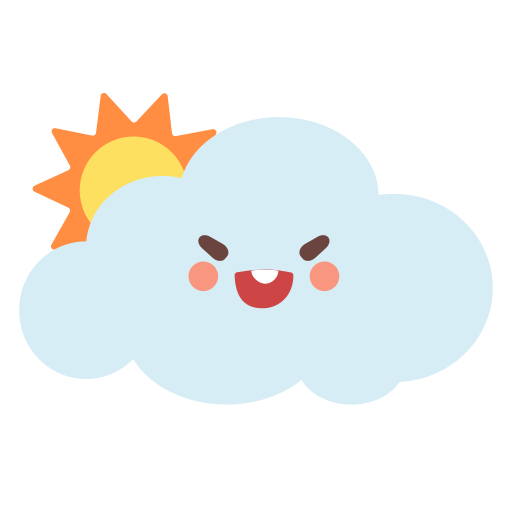
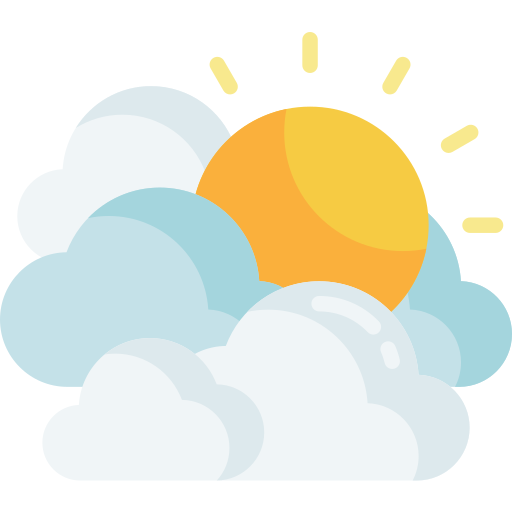
Making progress

diff --git a/src/index.html b/src/index.html
@@ -13,11 +13,14 @@
         <button class="fa-solid fa-magnifying-glass text-xl ml-16 mt-10 search-btn" style="color: #000000;"></button>
         <input type="text" placeholder="Search for a Places..." class="text-black text-base placeholder-black ml-3 outline-none pb-2 border-b-[1px] border-solid border-gray-200 search-input">
         <div class="weather-img w-[60%] mt-16 ml-12">
-          <img src="assets/sunlight.png" class="w-full weather-icon">
+          <img src="assets/sun.png" class="w-full weather-icon">
         </div>
         <p class="mt-10 ml-14 font-Roboto text-7xl text-black temp">0<span>°C</span></p>
         <p class="mt-4 ml-14 font-Lobster text-black text-2xl description">Sunny</p>
-        <p class="mt-6 ml-14 font-Roboto text-2xl text-black date">Sunday, <span class="font-Roboto text-base text-gray-600 time">16:00</span></p>
+        <div class="date-flex flex">
+          <p class="mt-2 ml-14 font-Roboto text-xl text-black date">Sunday</p>
+          <p class="font-Roboto text-base text-gray-600 mt-3 ml-2 time">16:00</p>
+        </div>
         <hr class="w-[80%] mx-auto mt-4">
         <div class="w-[70%] mx-auto flex flex-col items-center">
           <img src="assets/patrick-tomasso-QMDap1TAu0g-unsplash.jpg" class="w-[100%] mt-4 opacity-70">
@@ -29,43 +32,43 @@
         <div class="week-cards flex">
           <div class="card-1 bg-white w-[12%] h-[20vh] mt-6 ml-8 rounded-md weather-cards">
             <p class="font-Roboto text-base text-black text-center pt-3 day">Sun</p>
-            <img src="assets/sunlight.png" class="w-[50%] mx-auto mt-2">
+            <img src="assets/sun.png" class="w-[50%] mx-auto mt-2">
             <p class="font-Roboto text-base text-black text-center pt-3 temp">0<span>°C</span></p>
           </div>
 
           <div class="card-1 bg-white w-[12%] h-[20vh] mt-6 ml-5 rounded-md">
             <p class="font-Roboto text-base text-black text-center pt-3 day">Mon</p>
-            <img src="assets/sunlight.png" class="w-[50%] mx-auto mt-2">
+            <img src="assets/sun.png" class="w-[50%] mx-auto mt-2">
             <p class="font-Roboto text-base text-black text-center pt-3 temp">0<span>°C</span></p>
           </div>
 
           <div class="card-1 bg-white w-[12%] h-[20vh] mt-6 ml-5 rounded-md">
             <p class="font-Roboto text-base text-black text-center pt-3 day">Tue</p>
-            <img src="assets/sunlight.png" class="w-[50%] mx-auto mt-2">
+            <img src="assets/sun.png" class="w-[50%] mx-auto mt-2">
             <p class="font-Roboto text-base text-black text-center pt-3 temp">0<span>°C</span></p>
           </div>
 
           <div class="card-1 bg-white w-[12%] h-[20vh] mt-6 ml-5 rounded-md">
             <p class="font-Roboto text-base text-black text-center pt-3 day">Wed</p>
-            <img src="assets/sunlight.png" class="w-[50%] mx-auto mt-2">
+            <img src="assets/sun.png" class="w-[50%] mx-auto mt-2">
             <p class="font-Roboto text-base text-black text-center pt-3 temp">0<span>°C</span></p>
           </div>
 
           <div class="card-1 bg-white w-[12%] h-[20vh] mt-6 ml-5 rounded-md">
             <p class="font-Roboto text-base text-black text-center pt-3 day">Thu</p>
-            <img src="assets/sunlight.png" class="w-[50%] mx-auto mt-2">
+            <img src="assets/sun.png" class="w-[50%] mx-auto mt-2">
             <p class="font-Roboto text-base text-black text-center pt-3 temp">0<span>°C</span></p>
           </div>
 
           <div class="card-1 bg-white w-[12%] h-[20vh] mt-6 ml-5 rounded-md">
             <p class="font-Roboto text-base text-black text-center pt-3 day">Fri</p>
-            <img src="assets/sunlight.png" class="w-[50%] mx-auto mt-2">
+            <img src="assets/sun.png" class="w-[50%] mx-auto mt-2">
             <p class="font-Roboto text-base text-black text-center pt-3 temp">0<span>°C</span></p>
           </div>
 
           <div class="card-1 bg-white w-[12%] h-[20vh] mt-6 ml-5 rounded-md">
             <p class="font-Roboto text-base text-black text-center pt-3 day">Sat</p>
-            <img src="assets/sunlight.png" class="w-[50%] mx-auto mt-2">
+            <img src="assets/sun.png" class="w-[50%] mx-auto mt-2">
             <p class="font-Roboto text-base text-black text-center pt-3 temp">0<span>°C</span></p>
           </div>
         </div>

diff --git a/src/weather.js b/src/weather.js
@@ -25,16 +25,17 @@ locationInput.addEventListener('keyup', (e)=> {
 
 function getWeather() {
   const city = locationInput.value.trim()
+  const image = document.querySelector('.weather-icon');
+  const today = document.querySelector('.date');
+  let time = document.querySelector('.time');
   const url = `https://api.openweathermap.org/data/2.5/weather?q=${city}&units=metric&appid=${APIkey}`;
 
   fetch(url)
     .then((response) => response.json()).then(json => {
 
-      const image = document.querySelector('.weather-icon');
-
       switch (json.weather[0].main) {
         case 'Clear':
-          image.src = 'assets/sunlight.png';
+          image.src = 'assets/sun.png';
           break;
           
         case 'Clouds':
@@ -42,27 +43,30 @@ function getWeather() {
           break;
 
         case 'Rain':
-          image.src = 'assets/rain.png';
+          image.src = 'assets/heavy-rain.png';
           break;
         
         case 'Snow':
-          image.src = 'assets/windy.png';
+          image.src = 'assets/snow.png';
           break;
 
         case 'Drizzle':
-          image.src = 'assets/windy-rain.png';
+          image.src = 'assets/drizzle.png';
           break;
 
         case 'Thunderstorm':
-          image.src = 'assets/cloudy-cloud-rain.png'
+          image.src = 'assets/thunderstorm.png'
           break;
 
         default:
-          image.src = 'assets/sunlight.png';
+          image.src = 'assets/sun.png';
           break;
       }
 
       temps.innerHTML = `${Math.round(json.main.temp)}<span>°C</span>`;
+      description.innerHTML = `${json.weather[0].description}`.charAt(0).toUpperCase() + `${json.weather[0].description}`.slice(1);
+      today.innerHTML = new Date().toDateString().slice(0, 10);
+      time.innerHTML = new Date().getUTCHours() + ':' + new Date().getUTCMinutes();
     })
     .catch(error => {
       console.error('Error:', error);

diff --git a/dist/output.css b/dist/output.css
@@ -608,8 +608,8 @@ video {
   margin-bottom: 2rem;
 }
 
-.-mt-28{
-  margin-top: -7rem;
+.-mt-36{
+  margin-top: -9rem;
 }
 
 .ml-10{
@@ -626,6 +626,10 @@ video {
 
 .ml-16{
   margin-left: 4rem;
+}
+
+.ml-2{
+  margin-left: 0.5rem;
 }
 
 .ml-24{
@@ -692,22 +696,6 @@ video {
   margin-top: 2.25rem;
 }
 
-.mt-28{
-  margin-top: 7rem;
-}
-
-.-mt-36{
-  margin-top: -9rem;
-}
-
-.mb-10{
-  margin-bottom: 2.5rem;
-}
-
-.mb-20{
-  margin-bottom: 5rem;
-}
-
 .flex{
   display: flex;
 }
@@ -726,10 +714,6 @@ video {
 
 .h-\[25vh\]{
   height: 25vh;
-}
-
-.min-h-60{
-  min-height: 15rem;
 }
 
 .min-h-6{
@@ -772,12 +756,12 @@ video {
   width: 80%;
 }
 
-.w-full{
-  width: 100%;
-}
-
 .w-\[90\%\]{
   width: 90%;
+}
+
+.w-full{
+  width: 100%;
 }
 
 .grid-cols-3{
@@ -820,35 +804,12 @@ video {
   border-top-right-radius: 1.5rem;
 }
 
-.border-2{
-  border-width: 2px;
-}
-
-.border-b-2{
-  border-bottom-width: 2px;
-}
-
 .border-b-\[1px\]{
   border-bottom-width: 1px;
 }
 
 .border-solid{
   border-style: solid;
-}
-
-.border-red-700{
-  --tw-border-opacity: 1;
-  border-color: rgb(185 28 28 / var(--tw-border-opacity, 1));
-}
-
-.border-gray-400{
-  --tw-border-opacity: 1;
-  border-color: rgb(156 163 175 / var(--tw-border-opacity, 1));
-}
-
-.border-gray-100{
-  --tw-border-opacity: 1;
-  border-color: rgb(243 244 246 / var(--tw-border-opacity, 1));
 }
 
 .border-gray-200{
@@ -871,16 +832,12 @@ video {
   background-color: rgb(255 255 255 / var(--tw-bg-opacity, 1));
 }
 
-.pt-3{
-  padding-top: 0.75rem;
-}
-
-.pb-20{
-  padding-bottom: 5rem;
-}
-
 .pb-2{
   padding-bottom: 0.5rem;
+}
+
+.pt-3{
+  padding-top: 0.75rem;
 }
 
 .text-center{
